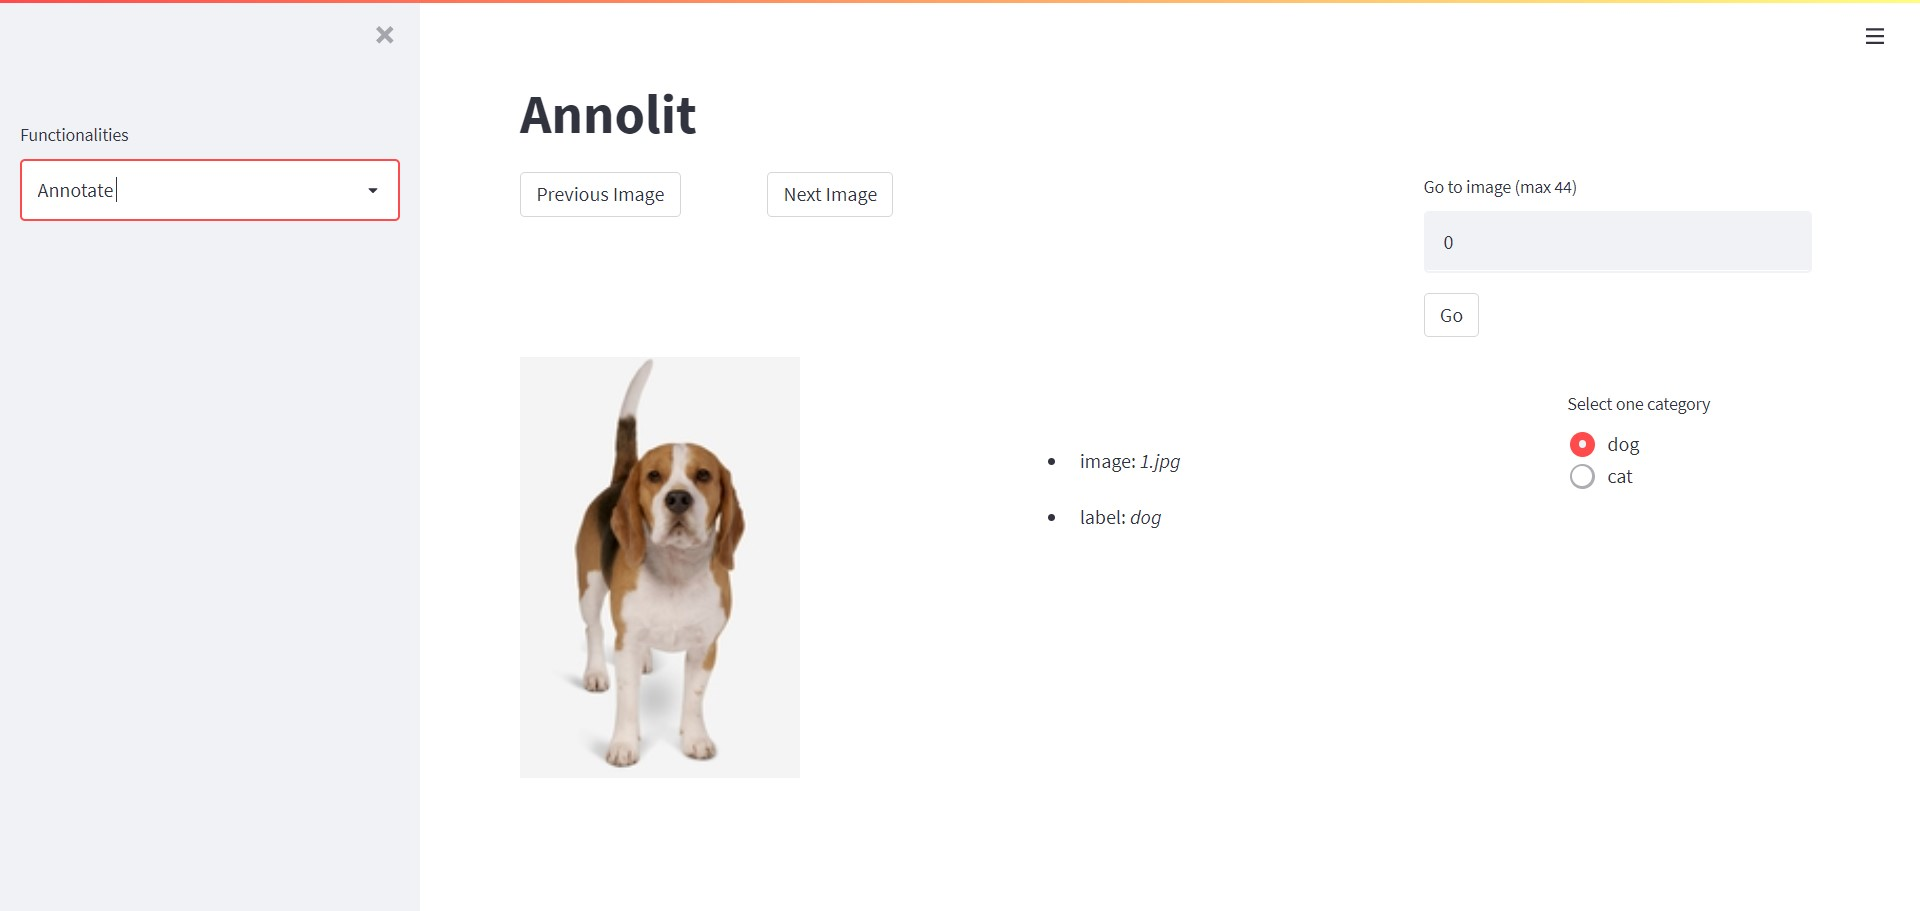
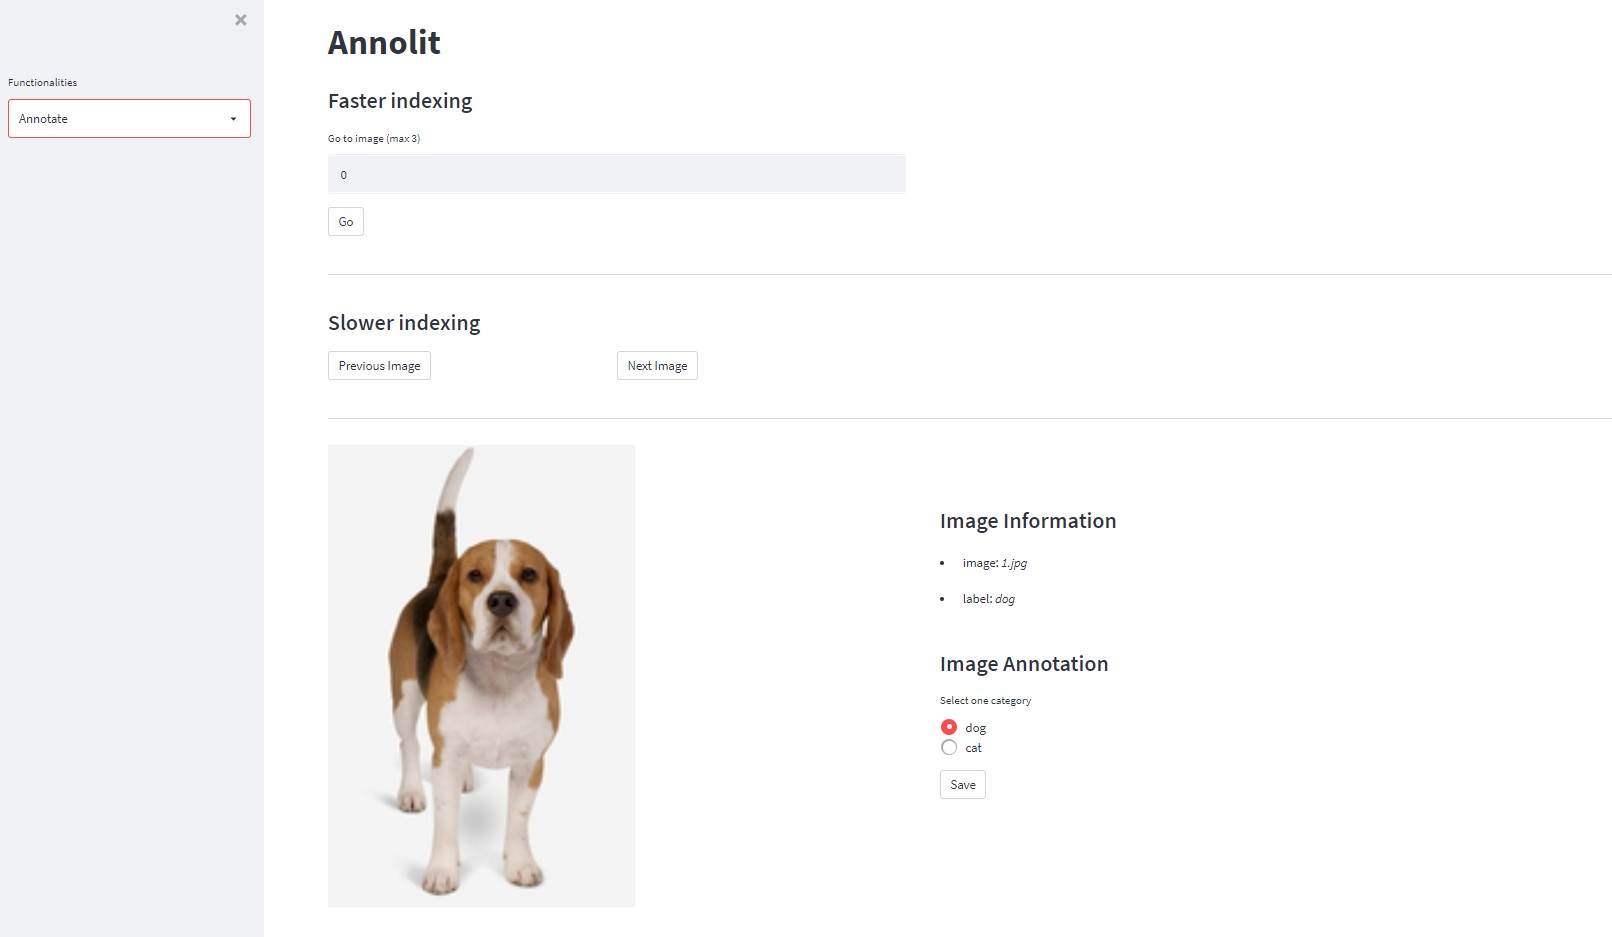
new annotate img

diff --git a/src/pages/annotate.py b/src/pages/annotate.py
@@ -52,6 +52,8 @@ def fn():
             st.markdown("### **Slower indexing**")
             prev_col, next_col, _ = st.columns([3, 3, 10])
             
+            st.write("-----")
+            
             prev_col.button("Previous Image", on_click=previous_image)
             next_col.button("Next Image", on_click=next_image)
 

diff --git a/README.md b/README.md
@@ -46,7 +46,5 @@ The annotations csv file will look like the following one:
 Be sure to have the images within the path *images/dataset_name/*.jpg*
 
 ### **To-Do**
-[ ] Fix UI/UX transition from setup and annotation
-
 [ ] Add support to Object Detection
     
